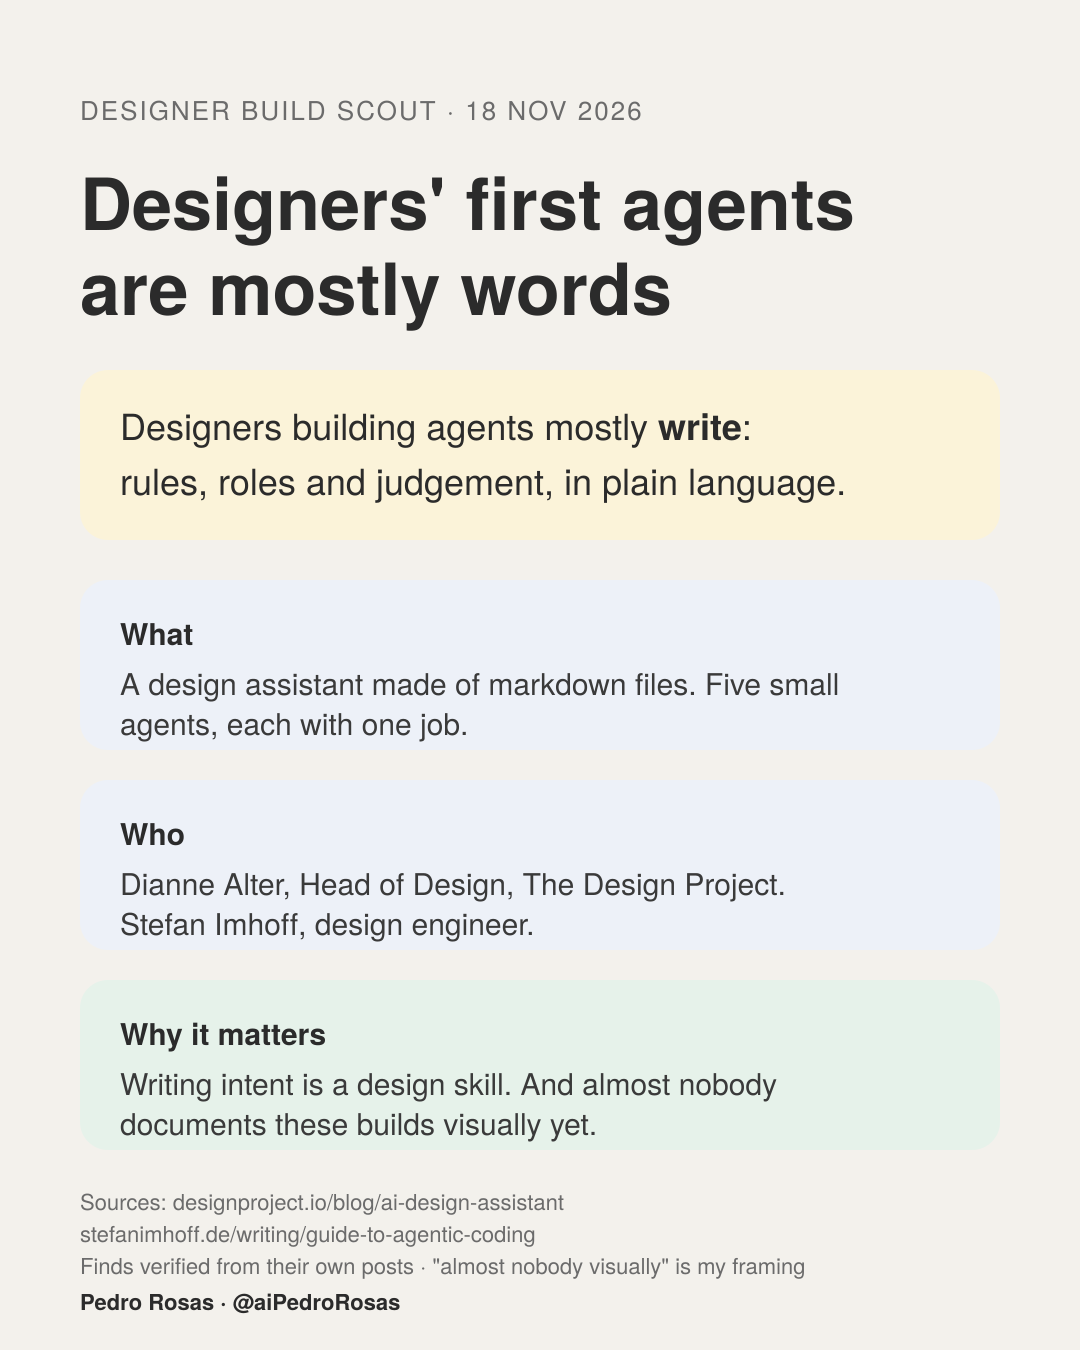
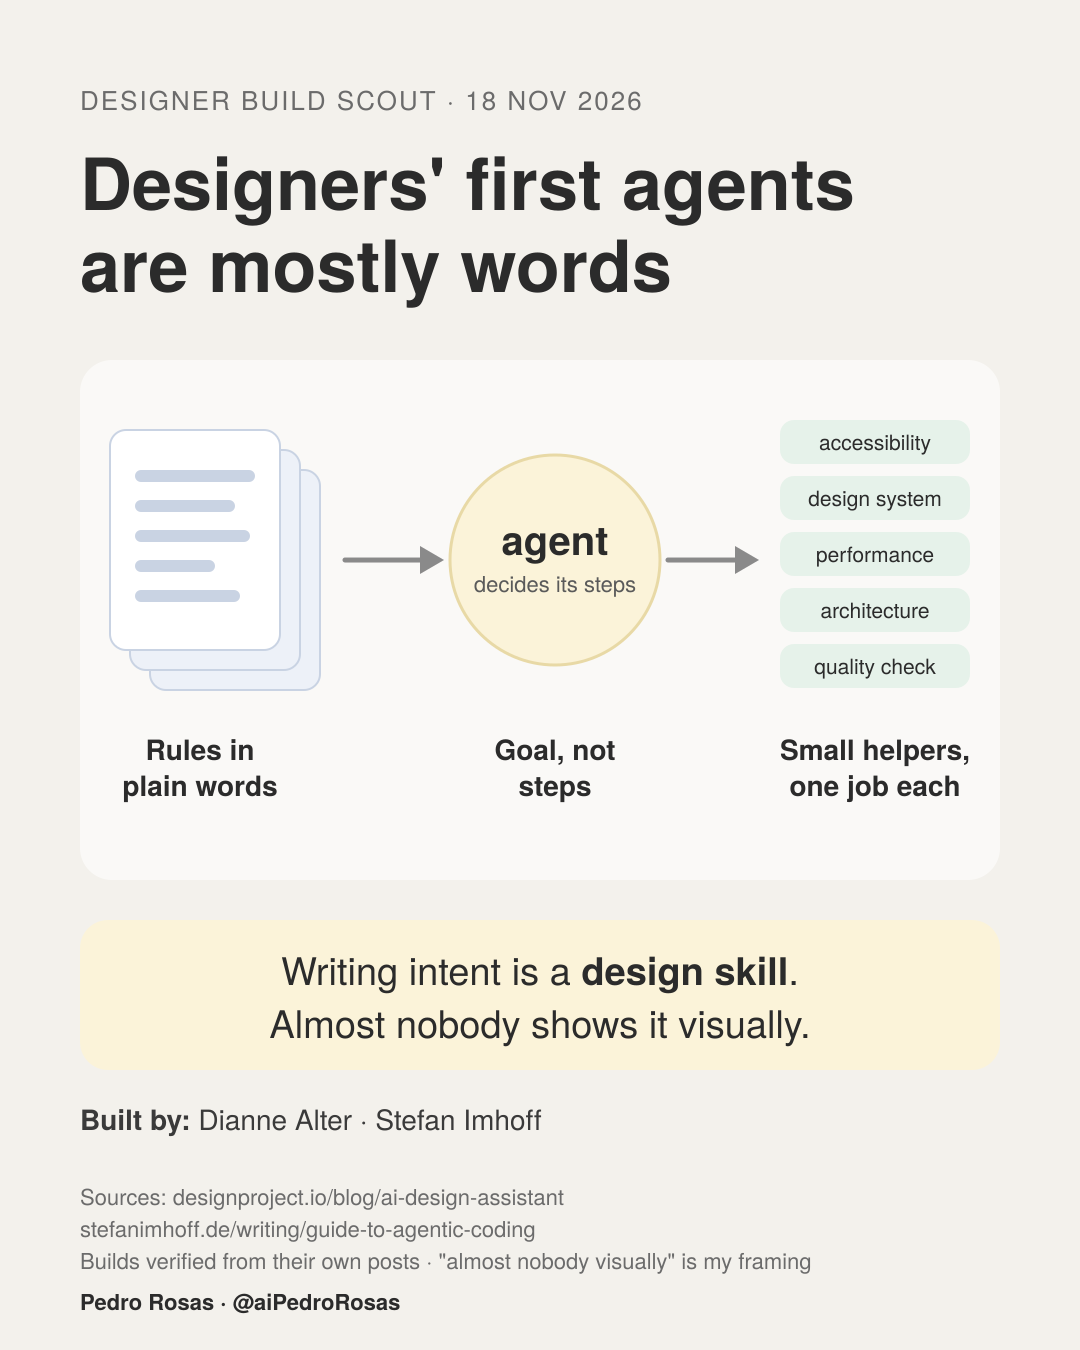
Taste test: more visual card (diagram first) and count partly autonomous builds
Claude-Session: https://claude.ai/code/session_01M4yeetsHzXtBGSubYrj3GH

Changed region(s): [[0.0611, 0.0622, 0.9472, 0.84], [0.0611, 0.8711, 0.7639, 0.9644]]

diff --git a/CLAUDE.md b/CLAUDE.md
@@ -21,6 +21,7 @@ Pedro, an experience designer moving into applied AI, building my first autonomo
 An autonomous agent is an AI that you give a goal, not steps, and that decides how to reach it by using tools on your behalf, within limits you set.
 Test: "Who decides the next step, the builder or the AI?" Builder = workflow or chatbot. AI = agent.
 Flag agent washing: assistants, chatbots or automations rebranded as "agents".
+Partly autonomous builds (the agent plans its own steps but pauses to ask before acting) DO count: keep them and label them "partly autonomous" in `notebook.csv` and on the card.
 
 ## Style checklist (score each 1-5, total out of 25)
 1. Easy: a designer gets it in 2 minutes
@@ -33,8 +34,9 @@ Flag agent washing: assistants, chatbots or automations rebranded as "agents".
 Draw ONE visual card as an image, ready to post:
 - Format: SVG, 1080 x 1350 (portrait, LinkedIn-friendly). Also export a PNG with the same name.
 - Look: soft colours only (background #F3F1EC; boxes #FBF3D9, #EDF1F8, #E6F2EA), rounded boxes, dark grey text, clean sans-serif. No icons, no emoji, no logos, no reproduced visuals.
-- Layout: small header (scout name + date) · title (max 8 words) · one big idea in a highlight box · 3 boxes: What, Who, Why it matters · footer with sources, verified / my framing label, and "Pedro Rosas · @aiPedroRosas".
-- Little text: each box max 2 short lines. Check nothing overflows.
+- Diagram first, words second: the middle of the card is a simple diagram made of shapes (boxes, circles, arrows, stacks) that explains the find at a glance, with short labels (max 3 words each).
+- Layout: small header (scout name + date) · title (max 8 words) · the diagram (about 40% of the card) · one big idea in a highlight box (max 2 short lines) · "Built by:" names · footer with sources, verified / my framing label, and "Pedro Rosas · @aiPedroRosas".
+- As little text as possible. Render the PNG and check nothing overflows.
 - Also save a short .md with the same name holding the card's text and full source links (alt text).
 - Use the latest card in `cards/` as the style reference.
 

diff --git a/LEARNING-LOG.md b/LEARNING-LOG.md
@@ -17,3 +17,5 @@ Every change to my agents, and **why**. Newest at the top.
 | Added Bluesky (free) | Fresher, more visual posts | Tested it: reading feeds works, keyword search needs a login. **Test before promising** |
 | Added a Bluesky Top 10 (likes + replies) | See what resonates | "Most liked" only means most liked **among what the agent found** |
 | Parked X (paid API) | Keep it $0 | Every data source has a price and an access rule |
+| Taste test: finds = useful; card = make it **more visual** | Text-heavy cards don't feel like me | Cards are now **diagram first, words second** |
+| "Partly autonomous" builds now count, with a label | I was unsure; including them finds more designers | When unsure, include and **label** rather than exclude |
